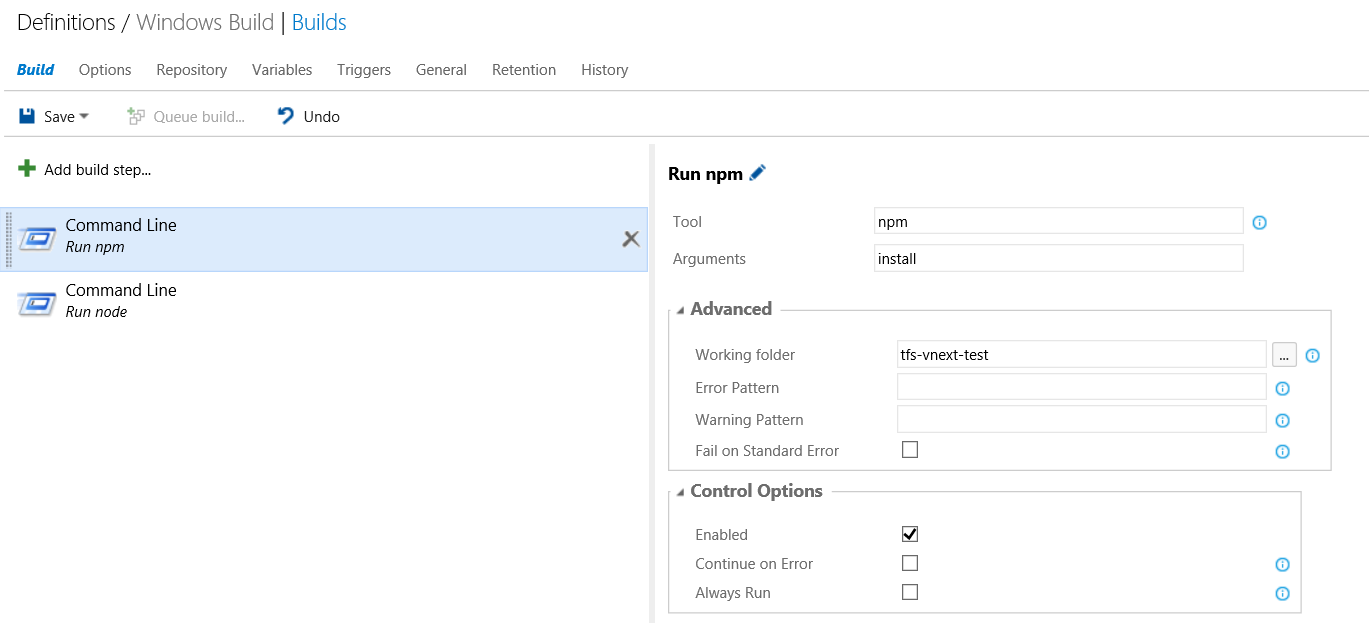
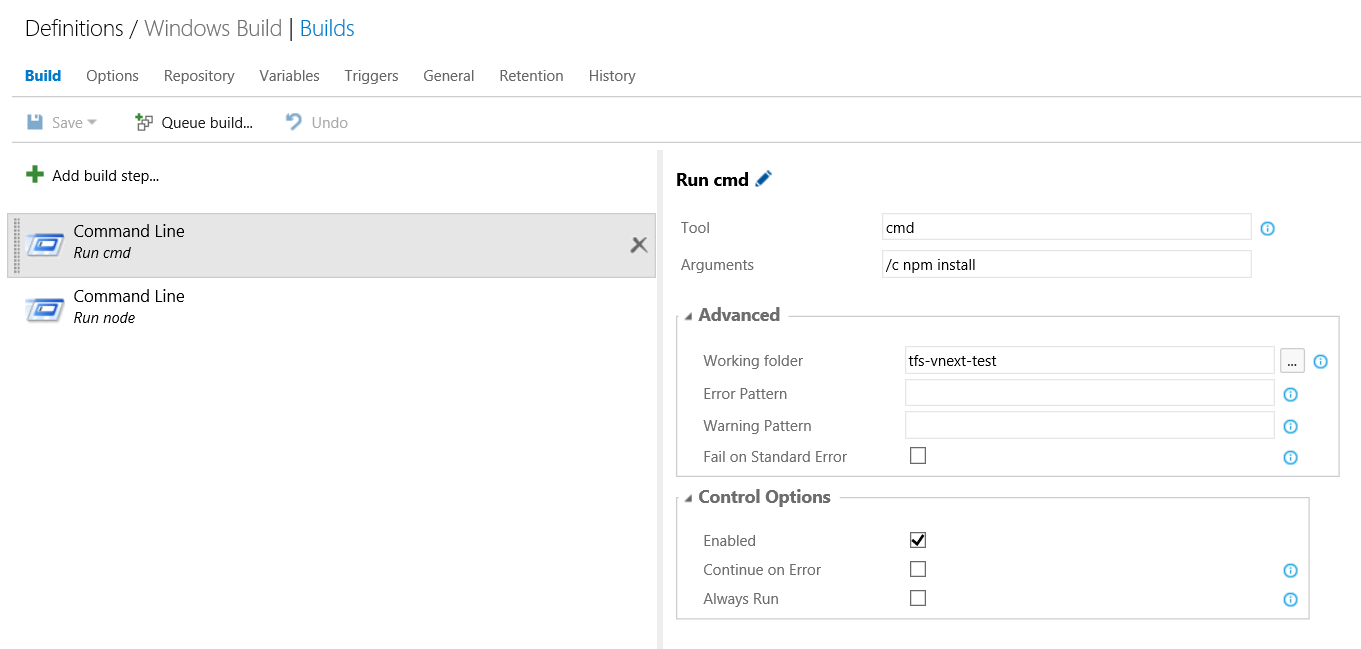
Fixes for getting npm to be recognized in TFS 2015's Command Line build task.

diff --git a/tutorial-team-build/TFS2015.md b/tutorial-team-build/TFS2015.md
@@ -50,6 +50,8 @@ There are two ways that this can be accomplished:
 For the sake of this tutorial, we'll cover option 2. The sample "gulpfile.js" assumes you want to build Android, Windows, and Windows Phone on Windows and iOS on OSX. Technically you could also opt to have Android built on OSX but we will not cover that in detail in this tutorial.
 
 #### Build Definition for Windows
+**Note:** *For this tutorial we have opted to use the "Command Line" build task since as of this writing the "Npm install" and "Gulp" build tasks were not available from the Windows agent. You can opt to use these build tasks instead and this tutorial will be updated as these featres come on-line.*
+
 Detailed instructions on creating build definitions in TFS 2015 can be found in [its documentation](http://go.microsoft.com/fwlink/?LinkID=533772), but here are the specific settings you will need to use to configure a build.
 
 1.  Create a new build definition and select "Empty" as the template. We'll start out targeting platforms that can be built on Windows so give the build definition a name that indicates that this is the case.
@@ -57,12 +59,14 @@ Detailed instructions on creating build definitions in TFS 2015 can be found in 
 2.  Now we will configure the build definition to install any Gulp or npm package dependencies your build may have. 
 	1.  Under the "Build" tab, add a new build step and select **Command Line** from the **Utility** category
 	2.  Use the following settings:
-		- **Tool:** npm
-		- **Arguments:** install
+		- **Tool:** cmd
+		- **Arguments:** /c npm install
 		- **Advanced =\> Working Directory**: Location of the Cordova project itself inside your solution (not the solution root).
 		- **Advanced =\> Fail on Standard Error**: Unchecked.
 
 	![Windows Build Definition - npm](<media/tfs2015-1.png>)
+
+	We need to use cmd.exe here due as npm is a batch file rather than an executable and thus is not found by the Command Line build task. This will be resolved in future updates.
 
 3.  Next we'll configure Gulp itself. 
 
@@ -95,9 +99,17 @@ That's it for Windows!
 #### Build Definition for OSX
 Now let's create a version of this same build definition to target iOS that will run on a configured cross-platform agent on OSX.
 
-1.  Right click on the Windows build definition and select "Clone." Once you save you should give this definition a name that indicates it's the OSX build.
+1. Right click on the Windows build definition and select "Clone." Once you save you should give this definition a name that indicates it's the OSX build.
 
-2.  Now we need to add a demand that will route builds to OSX machines rather than Windows. Under the "General" tab, remove the "windir" demand and add a demand that "xcode" exists.
+2. Next we need to update our call to "npm install" to be OSX friendly.
+	1.  Select the existing "Run cmd" Command Line build step
+	2.  Update the following settings:
+		- **Tool:** npm
+		- **Arguments:** npm install
+
+	![Windows Build Definition - Drop location](<media/tfs2015-6.png>)
+
+3.  Now we need to add a demand that will route builds to OSX machines rather than Windows. Under the "General" tab, remove the "windir" demand and add a demand that "xcode" exists.
 
 	![OSX Build Definition - Demand](<media/tfs2015-5.png>)
 
